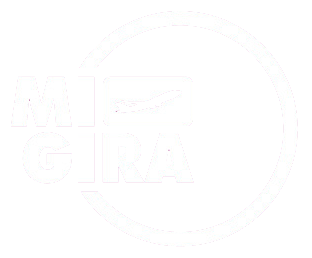
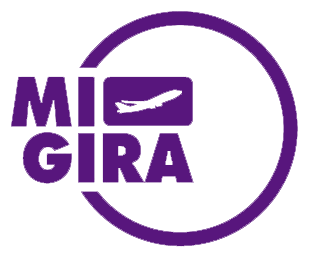
cambios cliente parte 1

Changed region(s): [[0.0288, 0.031, 0.9808, 0.9612]]

diff --git a/app/page.tsx b/app/page.tsx
@@ -3,6 +3,8 @@ import { motion } from "framer-motion";
 import Empresas from "@/componentes/Empresas";
 import Footer from "@/componentes/Footer";
 import Header from "@/componentes/Header";
+import Clientes from "@/componentes/Clientes";
+import Menu from "@/componentes/Menu";
 
 const variants = {
   hidden: { opacity: 0, y: 100 },
@@ -12,6 +14,7 @@ const variants = {
 export default function Home() {
   return (
     <div>
+      <Menu />
       <Header />
       <motion.div
         initial="hidden"
@@ -25,7 +28,7 @@ export default function Home() {
           nombre=""
           descripcion="Programas turisticos Internacionales y Giras de Estudio"
           logo="/gira.png"
-          color="#E76218"
+          color="#ffffff"
           reverse={false}
           vinculo="https://migira.cl/"
         />
@@ -42,7 +45,7 @@ export default function Home() {
           nombre=""
           descripcion="Construcción de proyectos públicos y privados | Proyectos inmobiliarios"
           logo="/logo-once-61.png"
-          color="#E76218"
+          color="#ffffff"
           reverse={true}
           vinculo="https://once61.cl/"
         />
@@ -59,7 +62,7 @@ export default function Home() {
           nombre=""
           descripcion="Arriendos de Camionetas | Arriendo de Vans | Arriendo de Camiones Pluma | Arriendo de Camiones Aljibe | Arriendo de Camiones Tolva"
           logo="/logo_rental.png"
-          color="#E76218"
+          color="#ffffff"
           reverse={false}
           vinculo="https://rentalspa.cl/"
         />
@@ -76,7 +79,7 @@ export default function Home() {
           nombre=""
           descripcion="Venta de aguas y bebidas nutricionales"
           logo="/logo_energy.png"
-          color="#E76218"
+          color="#ffffff"
           reverse={true}
           vinculo=""
         />
@@ -93,11 +96,12 @@ export default function Home() {
           nombre=""
           descripcion="Venta de productos de construcción | Venta de neumáticos y accesorios para vehículos "
           logo="/logo_gouap.png"
-          color="#E76218"
+          color="#ffffff"
           reverse={false}
           vinculo=""
         />
       </motion.div>
+      <Clientes />
       <Footer />
     </div>
   );

diff --git a/componentes/Menu.tsx b/componentes/Menu.tsx
@@ -1,0 +1,48 @@
+import React from "react";
+import Image from "next/image";
+
+const Menu = () => {
+  const empresas = [
+    {
+      nombre: "Gira",
+      url: "https://migira.cl/",
+    },
+    {
+      nombre: "Once61",
+      url: "https://once61.cl/",
+    },
+    {
+      nombre: "Rental",
+      url: "https://rentalchile.cl/",
+    },
+  ];
+
+  return (
+    <nav className="bg-white flex justify-between items-center p-4">
+      <div className="flex items-center">
+        <Image
+          src="/logo-emsoli.jpg"
+          alt="Emsoli Logo"
+          width={150}
+          height={150}
+        />
+      </div>
+      <ul className="flex justify-center">
+        {empresas.map((empresa) => (
+          <li key={empresa.nombre} className="px-4 py-2">
+            <a
+              href={empresa.url}
+              target="_blank"
+              rel="noopener noreferrer"
+              className="text-gray-800 font-semibold hover:text-gray-500"
+            >
+              {empresa.nombre}
+            </a>
+          </li>
+        ))}
+      </ul>
+    </nav>
+  );
+};
+
+export default Menu;

diff --git a/componentes/Clientes.tsx b/componentes/Clientes.tsx
@@ -1,0 +1,31 @@
+import Image from "next/image";
+import React from "react";
+
+const Clientes = () => {
+  return (
+    <div className="flex flex-row ">
+      <div>
+        <Image
+          src="/cliente_angloamerican.jpg"
+          alt=""
+          width={500}
+          height={500}
+        />
+      </div>
+      <div>
+        <Image src="/cliente_cm3.jpg" alt="" width={500} height={500} />
+      </div>
+      <div>
+        <Image src="/cliente_eurohinca.jpg" alt="" width={500} height={500} />
+      </div>
+      <div>
+        <Image src="/cliente_resister.jpg" alt="" width={500} height={500} />
+      </div>
+      <div>
+        <Image src="/cliente_terratest.jpg" alt="" width={500} height={500} />
+      </div>
+    </div>
+  );
+};
+
+export default Clientes;

diff --git a/componentes/Empresas.tsx b/componentes/Empresas.tsx
@@ -42,8 +42,10 @@ const Empresas = ({
         style={{ backgroundColor: color }}
       >
         <Image src={logo} alt="" width={200} height={200} />
-        <h2 className="mt-4">{nombre}</h2>
-        <p className="w-[200px] text-center text-[12px] p-2">{descripcion}</p>
+        <h2 className="mt-4 ">{nombre}</h2>
+        <p className="w-[200px] md:w-[300px] text-center text-[12px] md:text-[16px] p-2 text-black">
+          {descripcion}
+        </p>
         <Link
           className="text-white bg-blue-950 rounded-full mt-8 p-2 w-[150px] flex justify-center items-center hover:bg-blue-900"
           href={vinculo}
